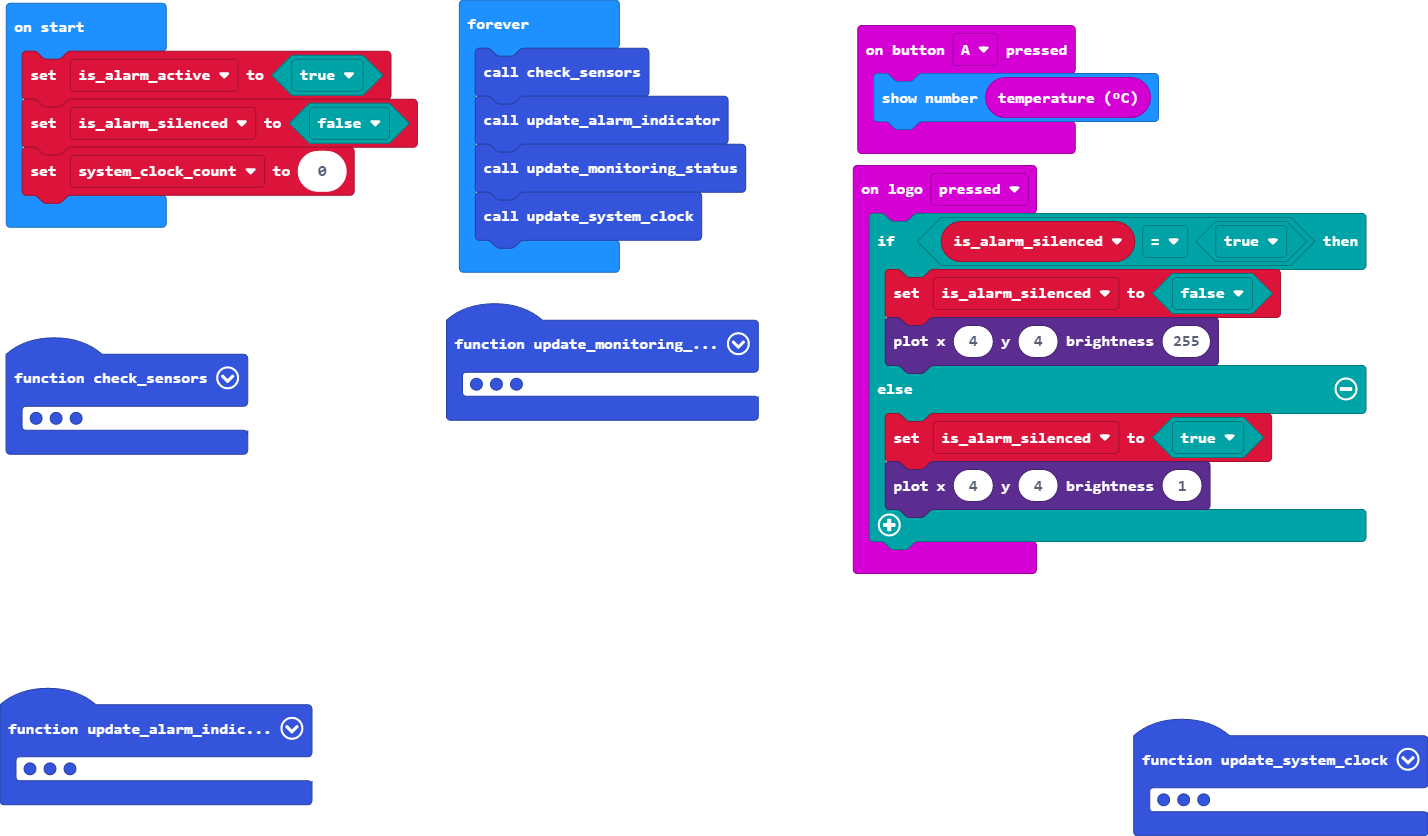
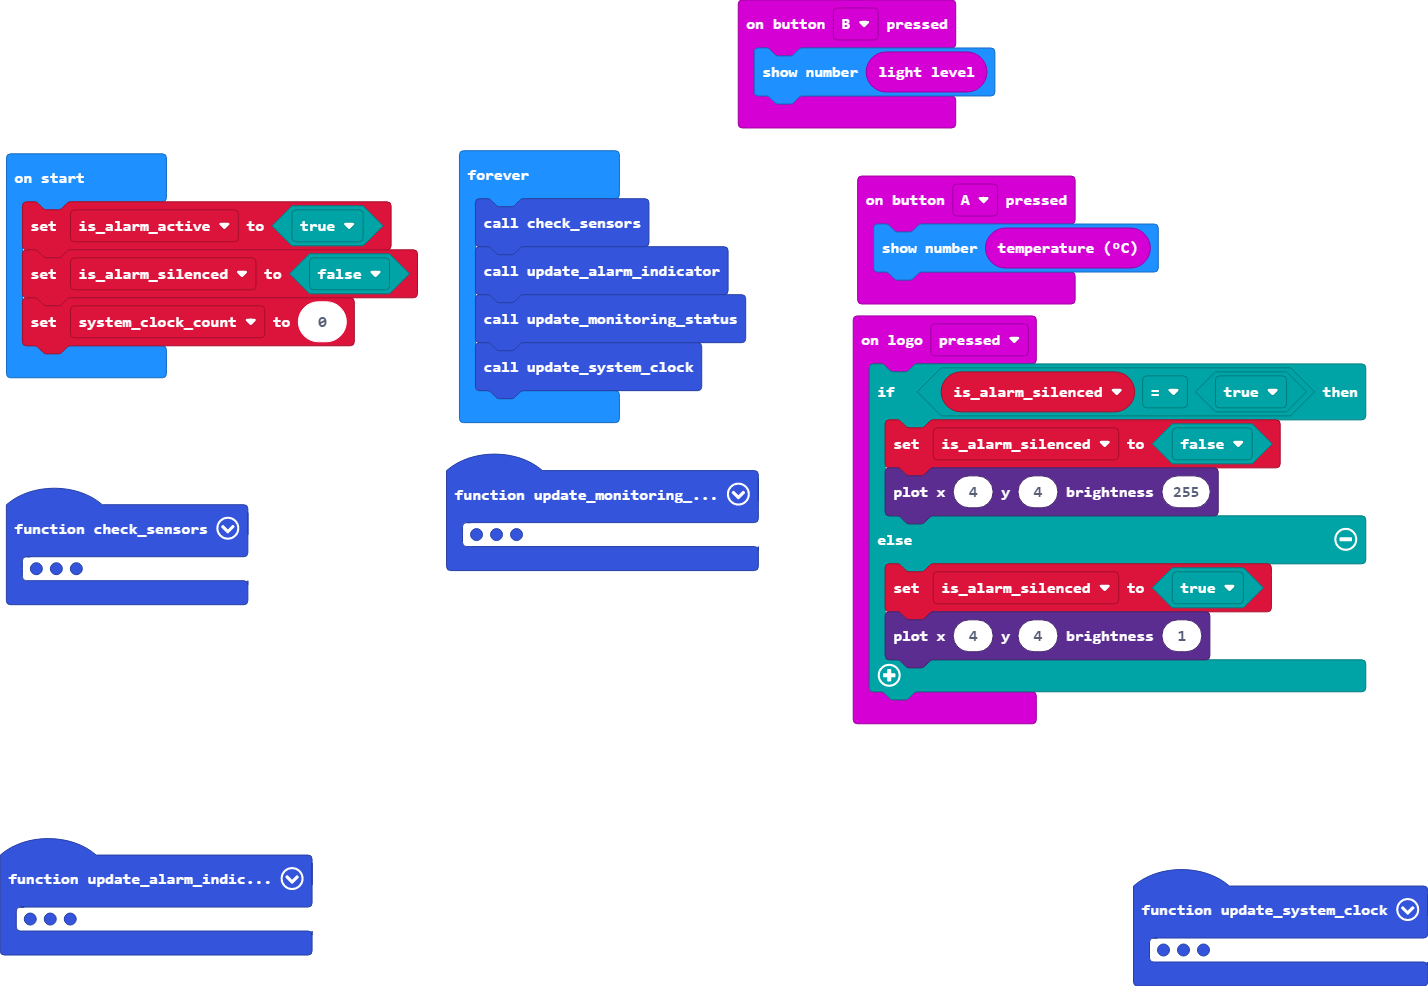
Update main.blocks, main.ts

diff --git a/main.ts b/main.ts
@@ -46,6 +46,9 @@ function check_sensors () {
         is_alarm_active = false
     }
 }
+input.onButtonPressed(Button.B, function () {
+    basic.showNumber(input.lightLevel())
+})
 input.onLogoEvent(TouchButtonEvent.Pressed, function () {
     if (is_alarm_silenced == true) {
         is_alarm_silenced = false
